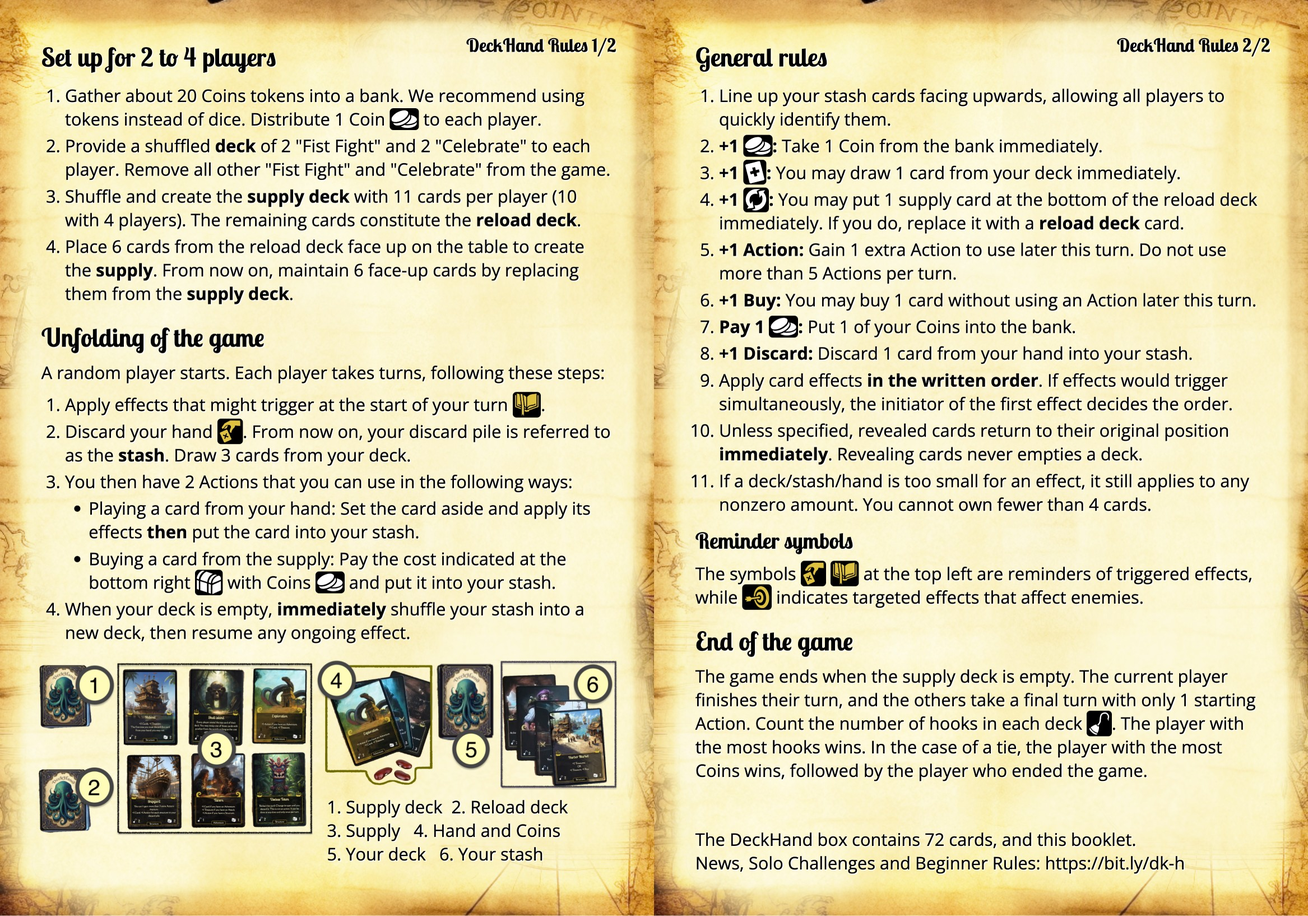
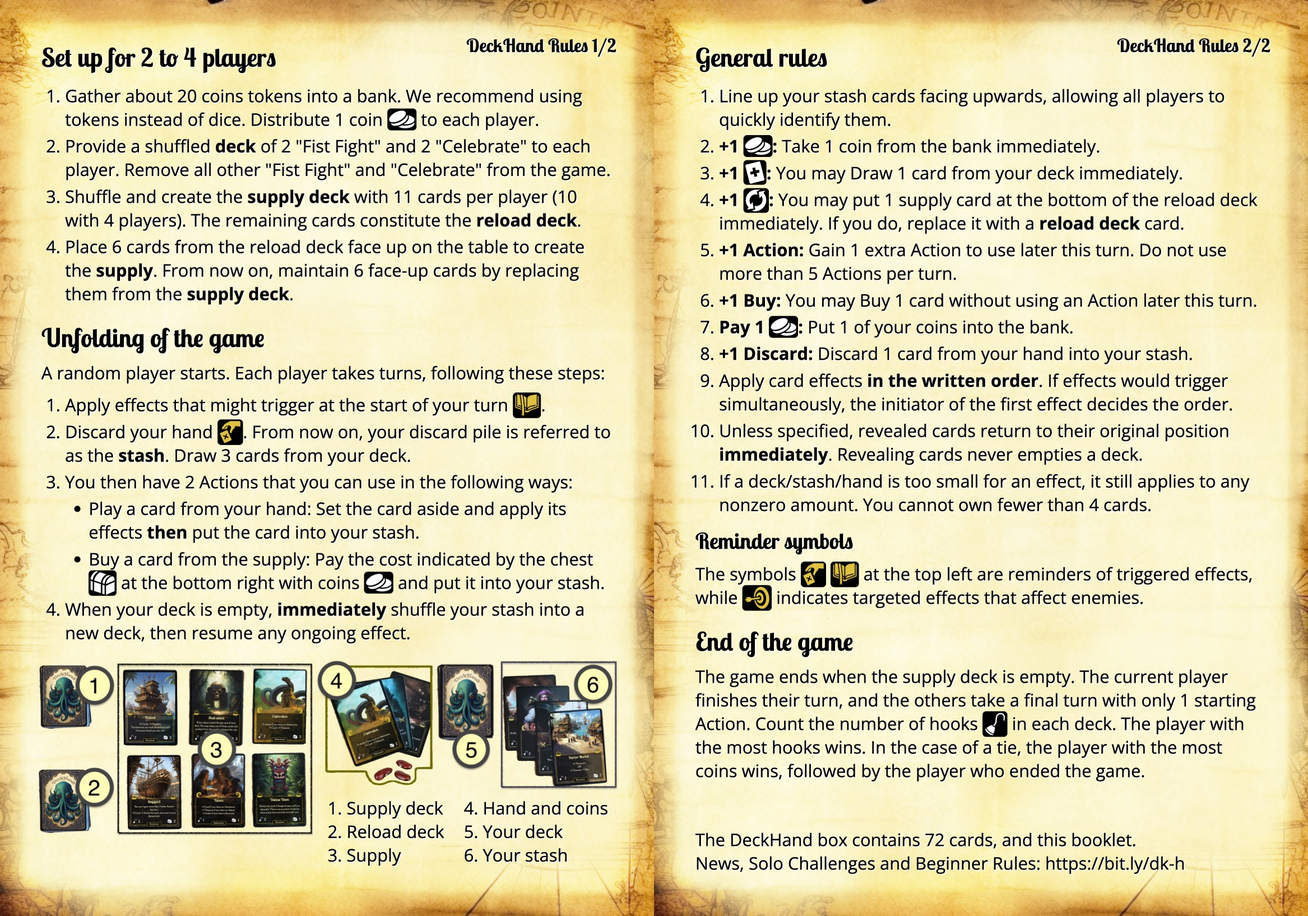
Improved rules layout minor tweaks

diff --git a/deckhand/design.html b/deckhand/design.html
@@ -69,10 +69,9 @@
                 </li>
                 <li>You then have 2 Actions that you can use in the following ways:
                     <ul>
-                        <li>Playing a card from your hand: Set the card aside and apply its effects <b>then</b> put the card into your stash.</li>
-                        <li>Buying a card from the supply: Pay the cost 
-                             indicated at the bottom right
-                             <img class="rule-icon" src="icons/chest-simplified.svg" /> 
+                        <li>Play a card from your hand: Set the card aside and apply its effects <b>then</b> put the card into your stash.</li>
+                        <li>Buy a card from the supply: Pay the cost 
+                             indicated by the chest <img class="rule-icon" src="icons/chest-simplified.svg" /> at the bottom right
                              with coins <img class="rule-icon coin" src="icons/coins.svg" /> and put it into your stash.</li>
                      </ul>
                 </li>
@@ -82,14 +81,19 @@
             </div>
 
              <div style="margin-bottom: 19px; position: relative;">
-                <img src="marketing/board.png" width="102%" style="margin-left: -1%" />
-                <p id="illustration">
-                    1. Supply deck &nbsp;2. Reload deck<br>
-                    3. Supply &nbsp;
-                    4. Hand and coins<br>
-                    5. Your deck &nbsp;
-                    6. Your stash
-                </p>
+                <img src="marketing/board.png" width="102%" style="margin-left: -1%;" />
+                <div id="illustration" style="width:140px">
+                    <div style="width:67px">
+                        1. Supply deck<br>
+                        2. Reload deck<br>
+                        3. Supply
+                    </div>
+                    <div style="width:82px;">
+                        4. Hand and coins<br>
+                        5. Your deck</br>
+                        6. Your stash
+                    </div>
+                </div>
             </div>
         </div>
     </div>
@@ -139,7 +143,7 @@
             <p>
                 The game ends when the supply deck is empty. The current player finishes their turn, and the others
                 take a final turn with only 1 starting Action.
-                Count the number of hooks in each deck <img class="rule-icon" src="icons/hook.svg" />. The player with the most
+                Count the number of hooks <img class="rule-icon" src="icons/hook.svg" /> in each deck. The player with the most
                 hooks wins. In the case of a tie, the player with the most coins wins, followed by the player who ended the game.
             </p>
 

diff --git a/deckhand/design.css b/deckhand/design.css
@@ -556,14 +556,11 @@ a, a:visited {
 
 #illustration {
     position:absolute;
-    left: 50%;
-    top: 75%
+    left: 50.1%;
+    top: 75.4%;
+    column-count: 2;
 }
 
-#illustration li {
-    float: left;
-    margin-right: 5px;
-}
 
 .mpc {
     /* display: none; */
@@ -574,8 +571,8 @@ a, a:visited {
     height: 13px;
     background: #000;
     border-radius: 2px;
-    margin-top: -1px;
-    margin-bottom: -3.5px;
+    margin-top: -1.5px;
+    margin-bottom: -3.7px;
     padding: 0.5px 1px;
 }
 
